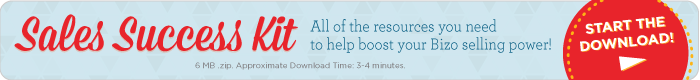
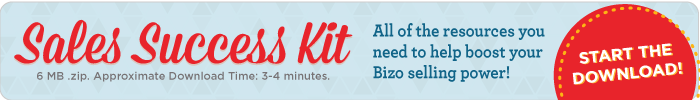
adding sales kit graphic to index

Changed region(s): [[0.03, 0.0, 1.0, 1.0], [0.03, 0.65, 0.75, 0.875], [0.72, 0.65, 0.75, 0.675]]

diff --git a/index.html b/index.html
@@ -111,10 +111,10 @@
                   <div class="span12">
 
                   <h3 class="section-header">Bizo Sales Success Kit</h3><hr>
-                  <p>All of the resources you need to get started selling Bizo!
-                    <br>(6 MB .zip, approximatly 3-4 minutes of download time)</p><br>
+                  <p>120 MB .zip. Approximate Download Time: 5-8 minutes.</p>
                   <a href="http://partners.bizo.com/media/Bizo_SalesSuccessKit.zip" target="blank">
-                    <button class="btn btn-warning bottom-btn" type="button">Download Success Kit</button></a>
+                    <img src="images/salessuccesskit2.png"></a>
+                  
                   
                   </div>
                 </div>
